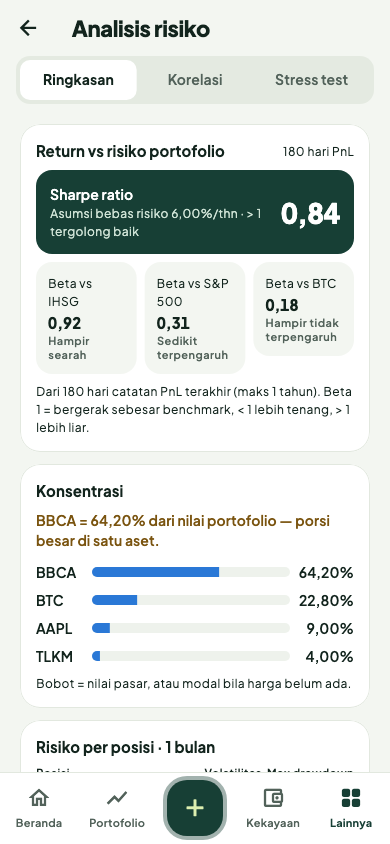
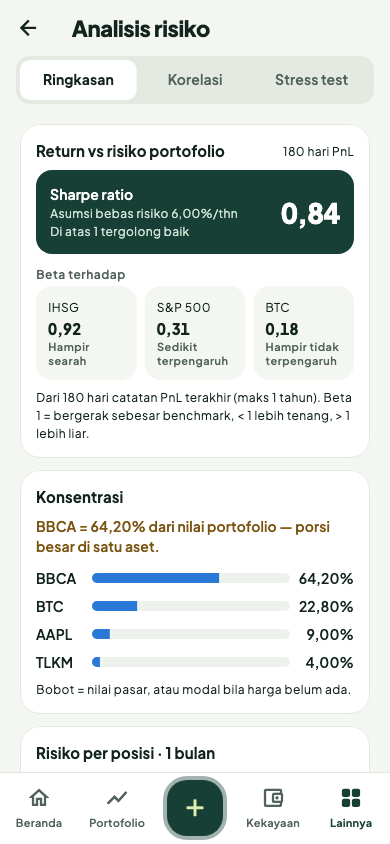
fix: fixing layout analisis resiko

diff --git a/lib/features/analysis/presentation/pages/analysis_page.dart b/lib/features/analysis/presentation/pages/analysis_page.dart
@@ -379,6 +379,7 @@ class _PortfolioRiskCard extends StatelessWidget {
   final PortfolioRisk risk;
 
   static String _fmt(double? v) => v == null ? '—' : v.toStringAsFixed(2).replaceAll('.', ',');
+  static String _meaning(double? beta) => beta == null ? 'Data kurang' : betaMeaning(beta);
 
   @override
   Widget build(BuildContext context) {
@@ -406,9 +407,13 @@ class _PortfolioRiskCard extends StatelessWidget {
                           crossAxisAlignment: CrossAxisAlignment.start,
                           children: [
                             Text('Sharpe ratio', style: text.labelLarge?.copyWith(color: Colors.white)),
+                            // Dua baris disengaja: tidak patah di tengah "> 1".
                             Text(
-                              'Asumsi bebas risiko ${Fmt.percent(risk.riskFreePercent, signed: false)}/thn · '
-                              '> 1 tergolong baik',
+                              'Asumsi bebas risiko ${Fmt.percent(risk.riskFreePercent, signed: false)}/thn',
+                              style: text.bodySmall?.copyWith(color: AppColors.heroMuted),
+                            ),
+                            Text(
+                              'Di atas 1 tergolong baik',
                               style: text.bodySmall?.copyWith(color: AppColors.heroMuted),
                             ),
                           ],
@@ -421,21 +426,59 @@ class _PortfolioRiskCard extends StatelessWidget {
                     ],
                   ),
                 ),
-                const SizedBox(height: AppSpacing.sm),
-                Row(
-                  crossAxisAlignment: CrossAxisAlignment.start,
-                  children: [
-                    for (final (i, (name, beta)) in betas.indexed) ...[
-                      if (i > 0) const SizedBox(width: AppSpacing.sm),
-                      Expanded(
-                        child: StatTile(
-                          label: 'Beta vs $name',
-                          value: Text(_fmt(beta)),
-                          caption: beta == null ? 'Data kurang' : betaMeaning(beta),
-                        ),
+                const SizedBox(height: AppSpacing.md),
+                Text('Beta terhadap', style: text.labelMedium?.copyWith(color: AppColors.textSecondary)),
+                const SizedBox(height: AppSpacing.xs),
+                LayoutBuilder(
+                  builder: (context, constraints) {
+                    // Tiga kotak butuh ±96 px per kotak dengan teks normal. Teks diperbesar / layar sempit →
+                    // daftar baris supaya label, angka & arti tidak terjepit atau meluber.
+                    final asList = MediaQuery.textScalerOf(context).scale(16) > 20 || constraints.maxWidth < 300;
+                    if (asList) {
+                      return Column(
+                        key: const ValueKey('beta-list'),
+                        children: [
+                          for (final (i, (name, beta)) in betas.indexed)
+                            Container(
+                              padding: const EdgeInsets.symmetric(vertical: AppSpacing.sm),
+                              decoration: BoxDecoration(
+                                border: i == 0 ? null : const Border(top: BorderSide(color: AppColors.divider)),
+                              ),
+                              child: Row(
+                                children: [
+                                  Expanded(
+                                    child: Column(
+                                      crossAxisAlignment: CrossAxisAlignment.start,
+                                      children: [
+                                        Text(name, style: text.labelLarge),
+                                        Text(_meaning(beta), style: text.bodySmall),
+                                      ],
+                                    ),
+                                  ),
+                                  const SizedBox(width: AppSpacing.sm),
+                                  Text(_fmt(beta), style: text.titleMedium?.copyWith(fontWeight: FontWeight.w800)),
+                                ],
+                              ),
+                            ),
+                        ],
+                      );
+                    }
+                    // Kotak sama tinggi: label pendek (nama benchmark) satu baris, angka & arti sejajar.
+                    return IntrinsicHeight(
+                      key: const ValueKey('beta-tiles'),
+                      child: Row(
+                        crossAxisAlignment: CrossAxisAlignment.stretch,
+                        children: [
+                          for (final (i, (name, beta)) in betas.indexed) ...[
+                            if (i > 0) const SizedBox(width: AppSpacing.sm),
+                            Expanded(
+                              child: StatTile(label: name, value: Text(_fmt(beta)), caption: _meaning(beta)),
+                            ),
+                          ],
+                        ],
                       ),
-                    ],
-                  ],
+                    );
+                  },
                 ),
                 const SizedBox(height: AppSpacing.sm),
                 Text(

diff --git a/test/features/analysis_risk_card_test.dart b/test/features/analysis_risk_card_test.dart
@@ -1,0 +1,55 @@
+import 'package:arah/core/state/privacy_cubit.dart';
+import 'package:arah/core/theme/app_theme.dart';
+import 'package:arah/core/widgets/widgets.dart';
+import 'package:arah/features/analysis/data/datasources/analysis_remote_data_source.dart';
+import 'package:arah/features/analysis/data/repositories/analysis_repository_impl.dart';
+import 'package:arah/features/analysis/domain/usecases/get_risk_analysis.dart';
+import 'package:arah/features/analysis/presentation/bloc/analysis_cubit.dart';
+import 'package:arah/features/analysis/presentation/pages/analysis_page.dart';
+import 'package:flutter/material.dart';
+import 'package:flutter_bloc/flutter_bloc.dart';
+import 'package:flutter_test/flutter_test.dart';
+import 'package:intl/date_symbol_data_local.dart';
+
+void main() {
+  setUpAll(() => initializeDateFormatting('id'));
+
+  Future<void> pump(WidgetTester tester, {double textScale = 1}) async {
+    tester.view.physicalSize = const Size(390, 1400);
+    tester.view.devicePixelRatio = 1;
+    tester.platformDispatcher.textScaleFactorTestValue = textScale;
+    addTearDown(tester.view.reset);
+    addTearDown(tester.platformDispatcher.clearTextScaleFactorTestValue);
+    await tester.pumpWidget(
+      MultiBlocProvider(
+        providers: [
+          BlocProvider(create: (_) => PrivacyCubit()),
+          BlocProvider(
+            create: (_) => AnalysisCubit(GetRiskAnalysis(AnalysisRepositoryImpl(AnalysisFixtureDataSource())))..load(),
+          ),
+        ],
+        child: MaterialApp(theme: AppTheme.light, home: const AnalysisPage()),
+      ),
+    );
+    await tester.pump(const Duration(seconds: 1));
+    await tester.pumpAndSettle();
+  }
+
+  testWidgets('beta: tiga kotak sama tinggi dengan label pendek', (tester) async {
+    await pump(tester);
+    expect(tester.takeException(), isNull);
+    expect(find.byKey(const ValueKey('beta-tiles')), findsOneWidget);
+    final tiles = find.descendant(of: find.byKey(const ValueKey('beta-tiles')), matching: find.byType(StatTile));
+    final heights = {for (final e in tiles.evaluate()) (e.renderObject! as RenderBox).size.height};
+    expect(tiles, findsNWidgets(3));
+    expect(heights, hasLength(1));
+  });
+
+  testWidgets('beta: teks diperbesar → daftar baris tanpa overflow', (tester) async {
+    await pump(tester, textScale: 1.5);
+    expect(tester.takeException(), isNull);
+    expect(find.byKey(const ValueKey('beta-list')), findsOneWidget);
+    expect(find.byKey(const ValueKey('beta-tiles')), findsNothing);
+    expect(find.text('0,18'), findsOneWidget);
+  });
+}

diff --git a/test/p1_screens_test.dart b/test/p1_screens_test.dart
@@ -229,7 +229,7 @@ void main() {
     expect(find.textContaining('BBCA = 64,20%'), findsOneWidget);
     expect(find.text('Sharpe ratio'), findsOneWidget);
     expect(find.text('0,92'), findsOneWidget); // beta vs IHSG fixture
-    expect(find.text('Beta vs BTC'), findsOneWidget);
+    expect(find.text('Beta terhadap'), findsOneWidget);
     expect(find.text('0,18'), findsOneWidget);
     await tester.tap(find.text('Korelasi'));
     await tester.pumpAndSettle();
